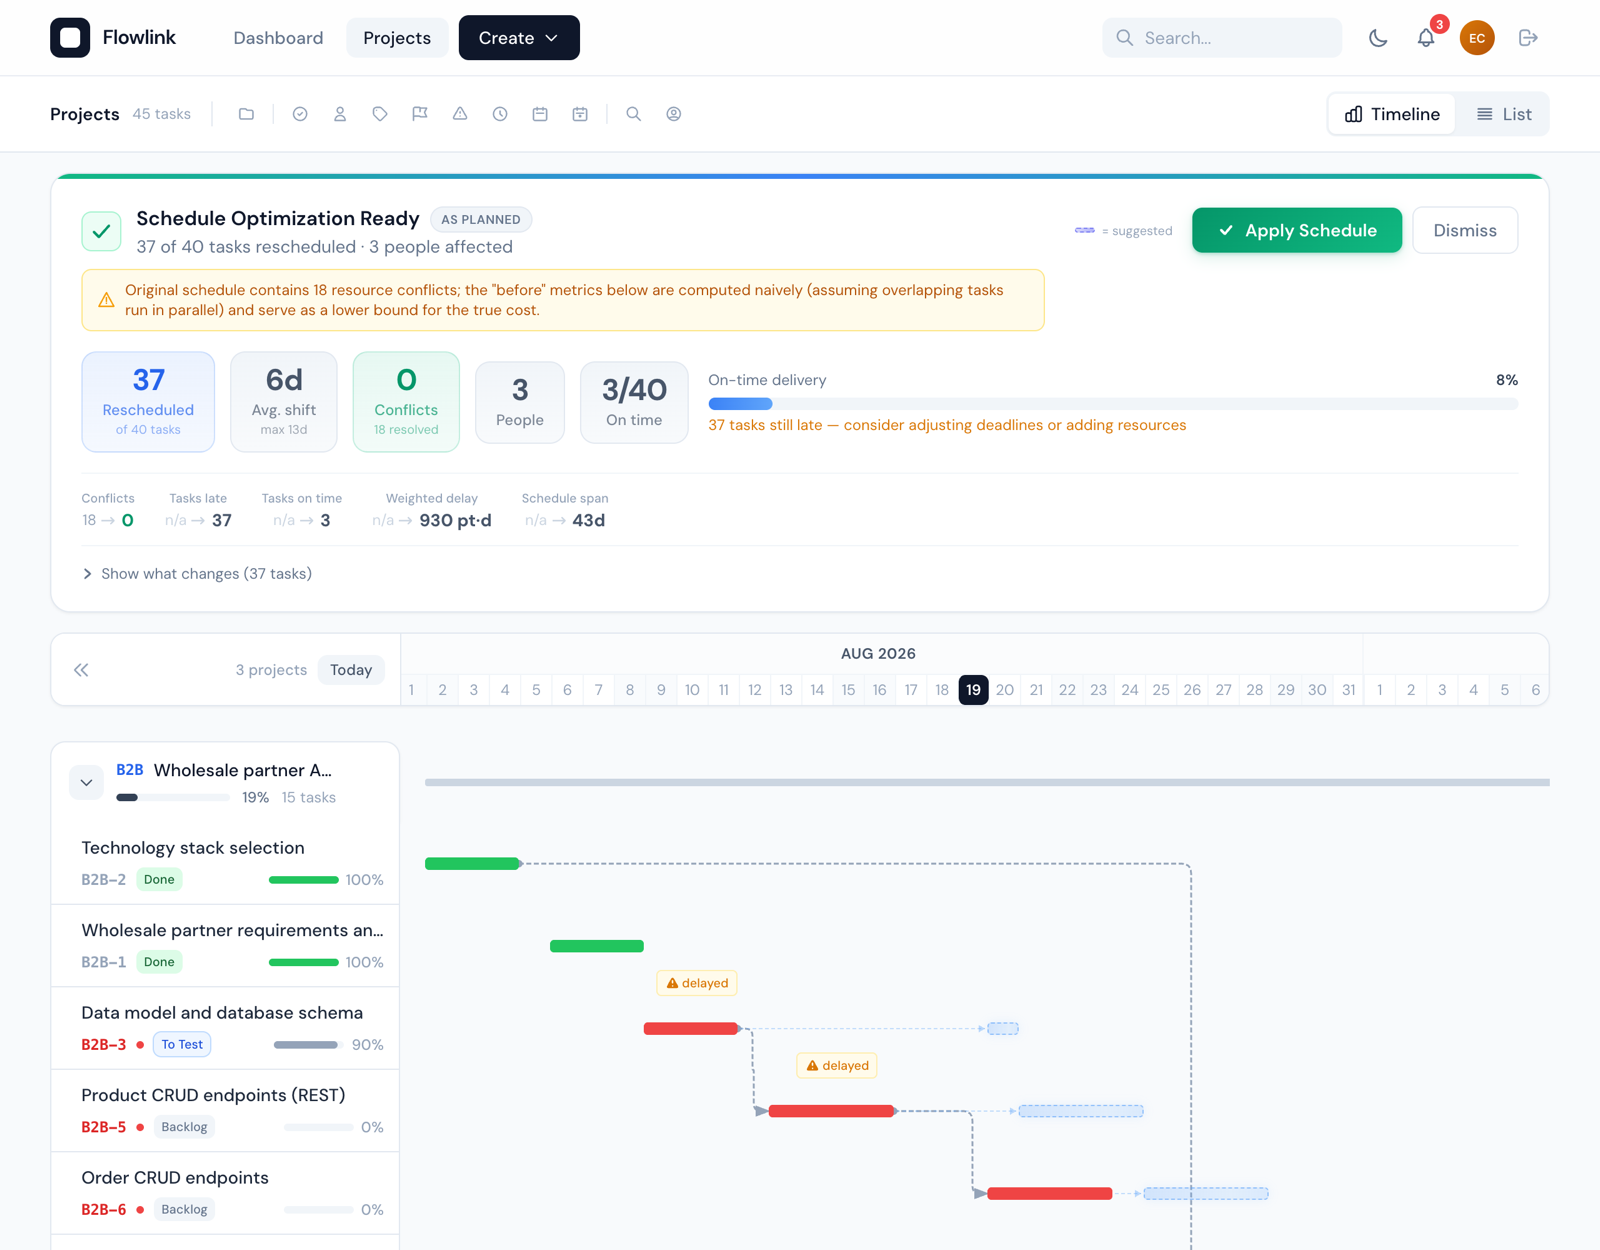
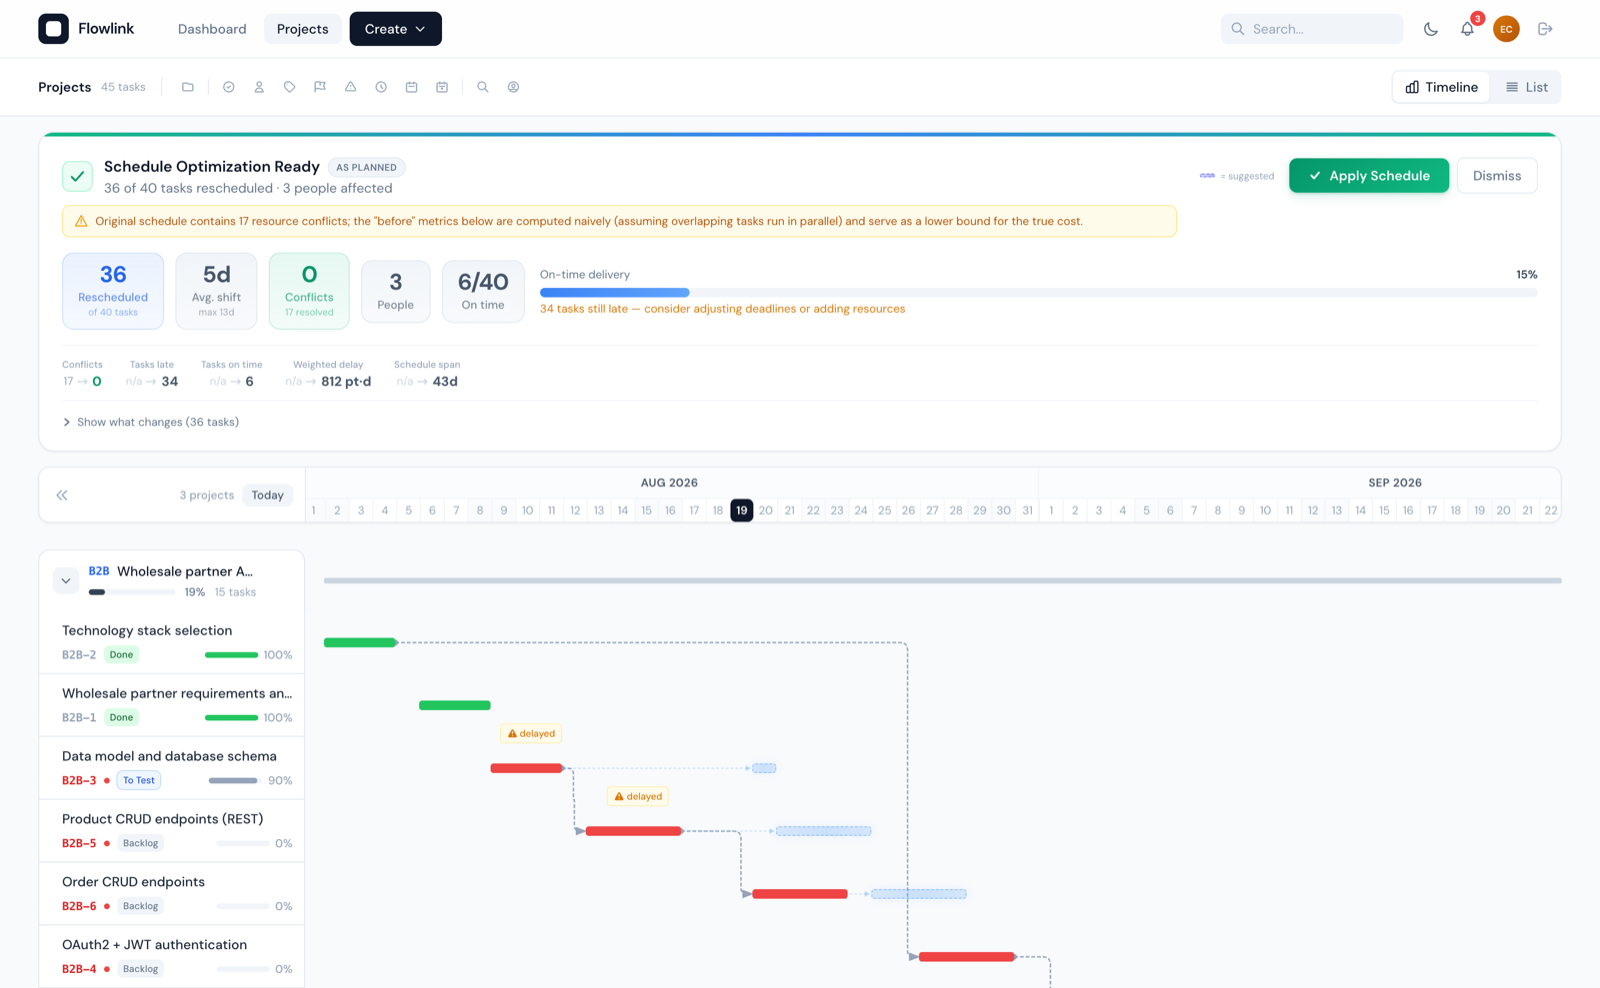
docs: give the demo data some tasks with real schedule slack
Every not-yet-started task was mathematically guaranteed to sit on the
critical path (CriticalPathAnalyzer treats a task's own due date as its
latest finish, so a zero-progress task always has zero slack). Across
all three demo projects that meant 40 of 45 tasks showed up red, which
made the timeline and list screenshots read as "everything is on fire"
rather than a real portfolio.

Moved three standalone ECOM backlog tasks to IN_PROGRESS with real
completion percentages, which gives them genuine float. Re-seeded,
recaptured every screenshot the changed numbers touch (dashboard,
timeline, list, schedule-optimizer, analytics), and updated the
optimizer stats and demo-seed status counts in the docs to match.
Also switched the timeline/list screenshots from B2B to ECOM and
added a one-line caption under each gallery image.

diff --git a/README.md b/README.md
@@ -3,16 +3,22 @@
 *A self-scheduling project management tool.*
 
 ![FlowLink dashboard: three projects, critical/delayed/at-risk counts, and analytics charts](docs/screenshots/dashboard.png)
+*Dashboard — portfolio-wide risk counts and per-project progress at a glance.*
 
-![Gantt timeline before optimization: overlapping assignments across a project's tasks, with dependency arrows and delayed-task flags](docs/screenshots/timeline.png)
+![Gantt timeline before optimization: a dependency chain with two overdue tasks flagged, alongside a task that is still comfortably on schedule](docs/screenshots/timeline.png)
+*Gantt timeline — dependency chains and overdue tasks in red, work that still has slack in blue.*
 
-![Schedule optimization result: 18 resource conflicts resolved to 0, delayed tasks and their dependencies shifted to ghost-bar suggestions](docs/screenshots/schedule-optimizer.png)
+![Schedule optimization result: 17 resource conflicts resolved to 0, delayed tasks and their dependencies shifted to ghost-bar suggestions](docs/screenshots/schedule-optimizer.png)
+*Schedule optimizer — one run resolves all 17 resource conflicts; ghost bars show the proposed shift.*
 
 ![List view: the same tasks as a table, with per-row schedule slip, blocked-by dependencies and days-overdue called out inline](docs/screenshots/list.png)
+*List view — the same tasks as a sortable table, with slip and blocking dependencies called out per row.*
 
 ![Task detail modal with a rich text editor, schedule, and a threaded comment discussion](docs/screenshots/task-detail.png)
+*Task detail — rich text description, schedule, and a threaded comment discussion.*
 
 ![Analytics: status and priority distribution, project progress, completion trend and optimization opportunity score](docs/screenshots/analytics.png)
+*Analytics — status and priority breakdowns, completion trend, and optimization opportunity score.*
 
 FlowLink is a project and portfolio management application. It tracks projects, tasks and task
 dependencies, renders them on a Gantt-style timeline, and adds threaded comments with reactions,
@@ -154,8 +160,8 @@ lowest-scoring candidate wins.
 
 `POST /optimization/simulate` runs this whole pipeline and returns the proposed dates without
 writing anything, which is what lets the UI show them as ghost bars alongside the current plan
-before anyone commits to them (the screenshot at the top shows the result: 18 conflicts resolved,
-37 of 40 tasks rescheduled). `POST /optimization/apply` does not trust dates echoed back by the
+before anyone commits to them (the screenshot at the top shows the result: 17 conflicts resolved,
+36 of 40 tasks rescheduled). `POST /optimization/apply` does not trust dates echoed back by the
 browser — it recomputes the schedule server-side from the current
 data and persists that, so what ends up in the database is feasible by construction rather than
 whatever the client last saw.

diff --git a/backend/scripts/db/DEMO-SEED-README.md b/backend/scripts/db/DEMO-SEED-README.md
@@ -40,8 +40,8 @@ that is reachable from the internet.
 | Reactions | 5 |
 | Notifications for the manager | 6 |
 
-Priority mix across the 45 tasks: 5 HIGHEST, 9 HIGH, 18 MEDIUM, 9 LOW, 4 LOWEST. Eight statuses are
-represented — `BACKLOG` (34, the bulk of the planned work), plus one each of
+Priority mix across the 45 tasks: 5 HIGHEST, 9 HIGH, 18 MEDIUM, 9 LOW, 4 LOWEST. Nine statuses are
+represented — `BACKLOG` (31, the bulk of the planned work), `IN_PROGRESS` (3), plus one each of
 `GATHERING_INTEREST`, `TODO`, `TO_REVIEW`, `TO_TEST`, `IN_TEST` and `READY_TO_MERGE`, and 5 `DONE`
 — so the list and board views show more than a single column.
 
